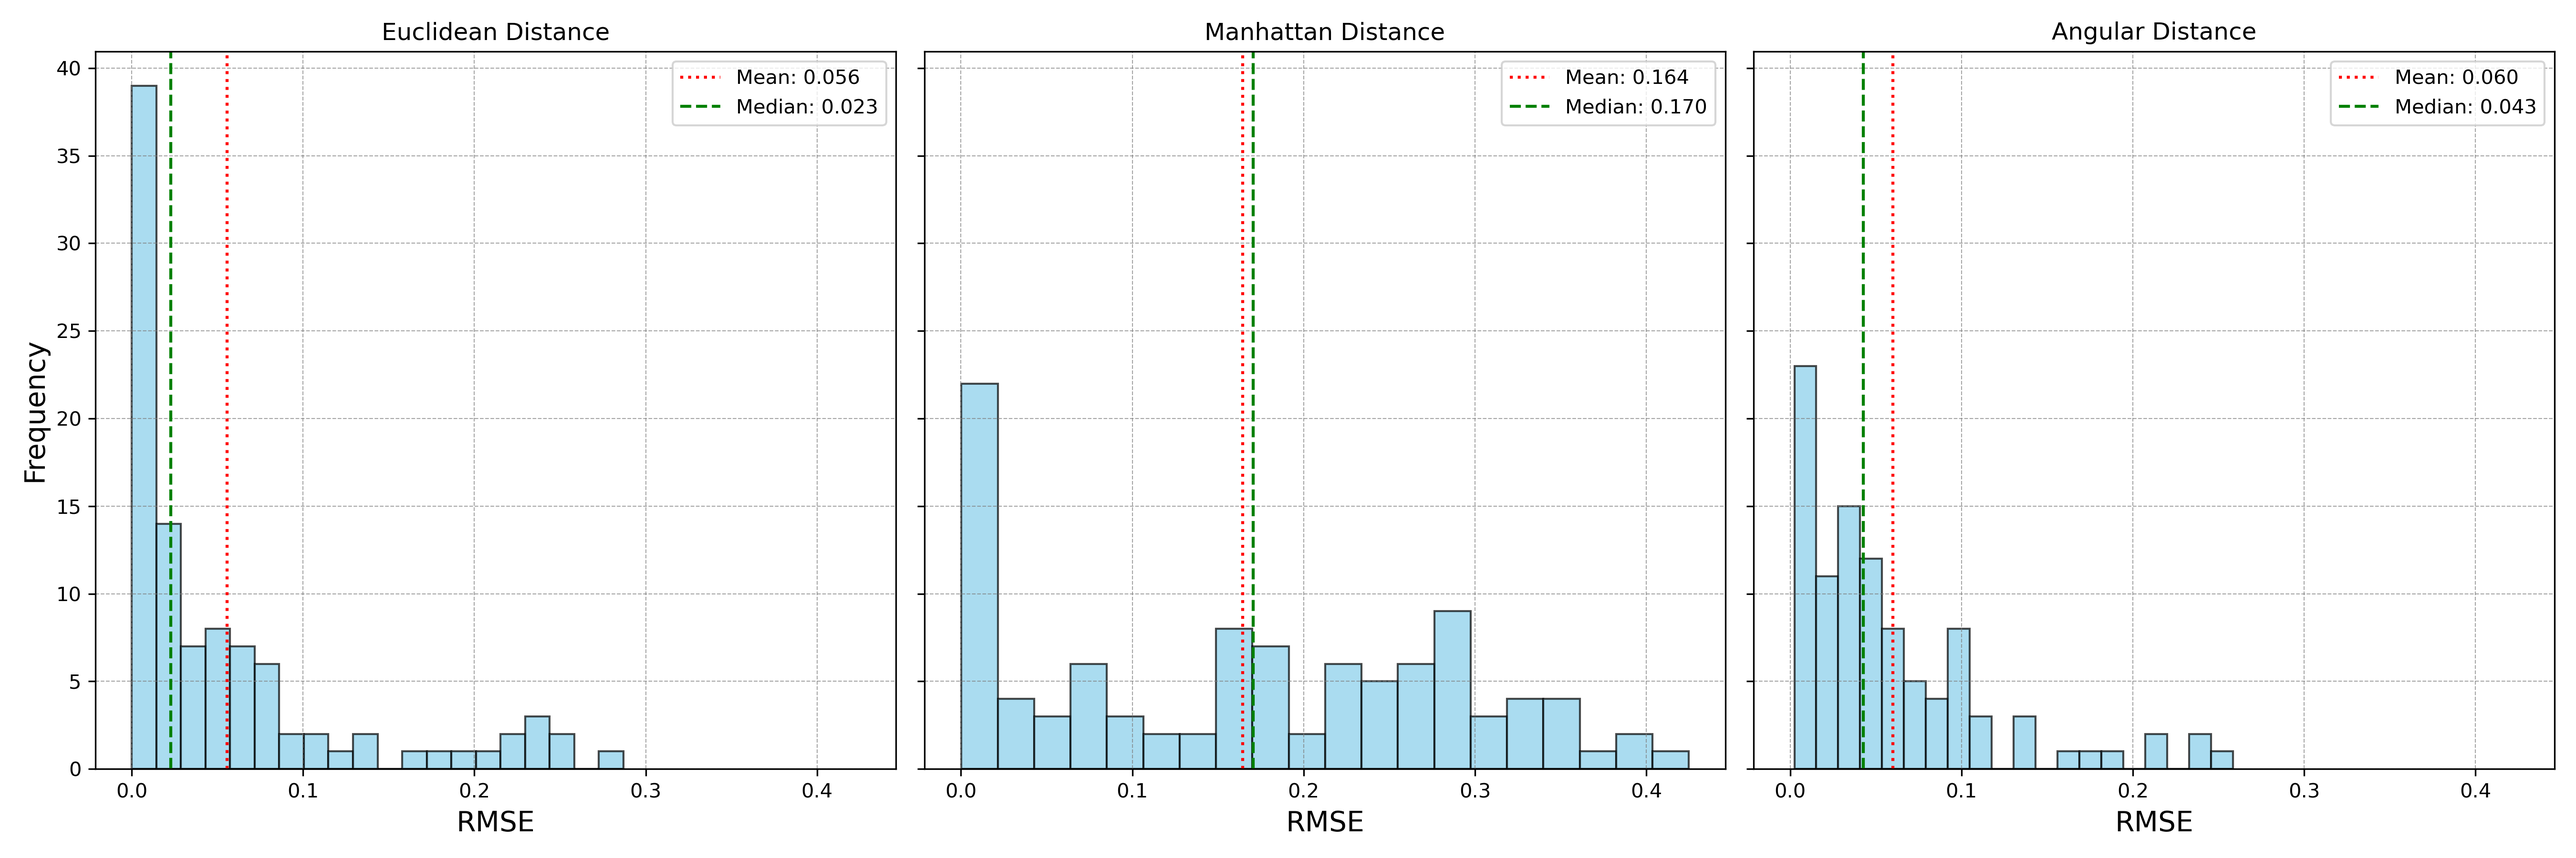
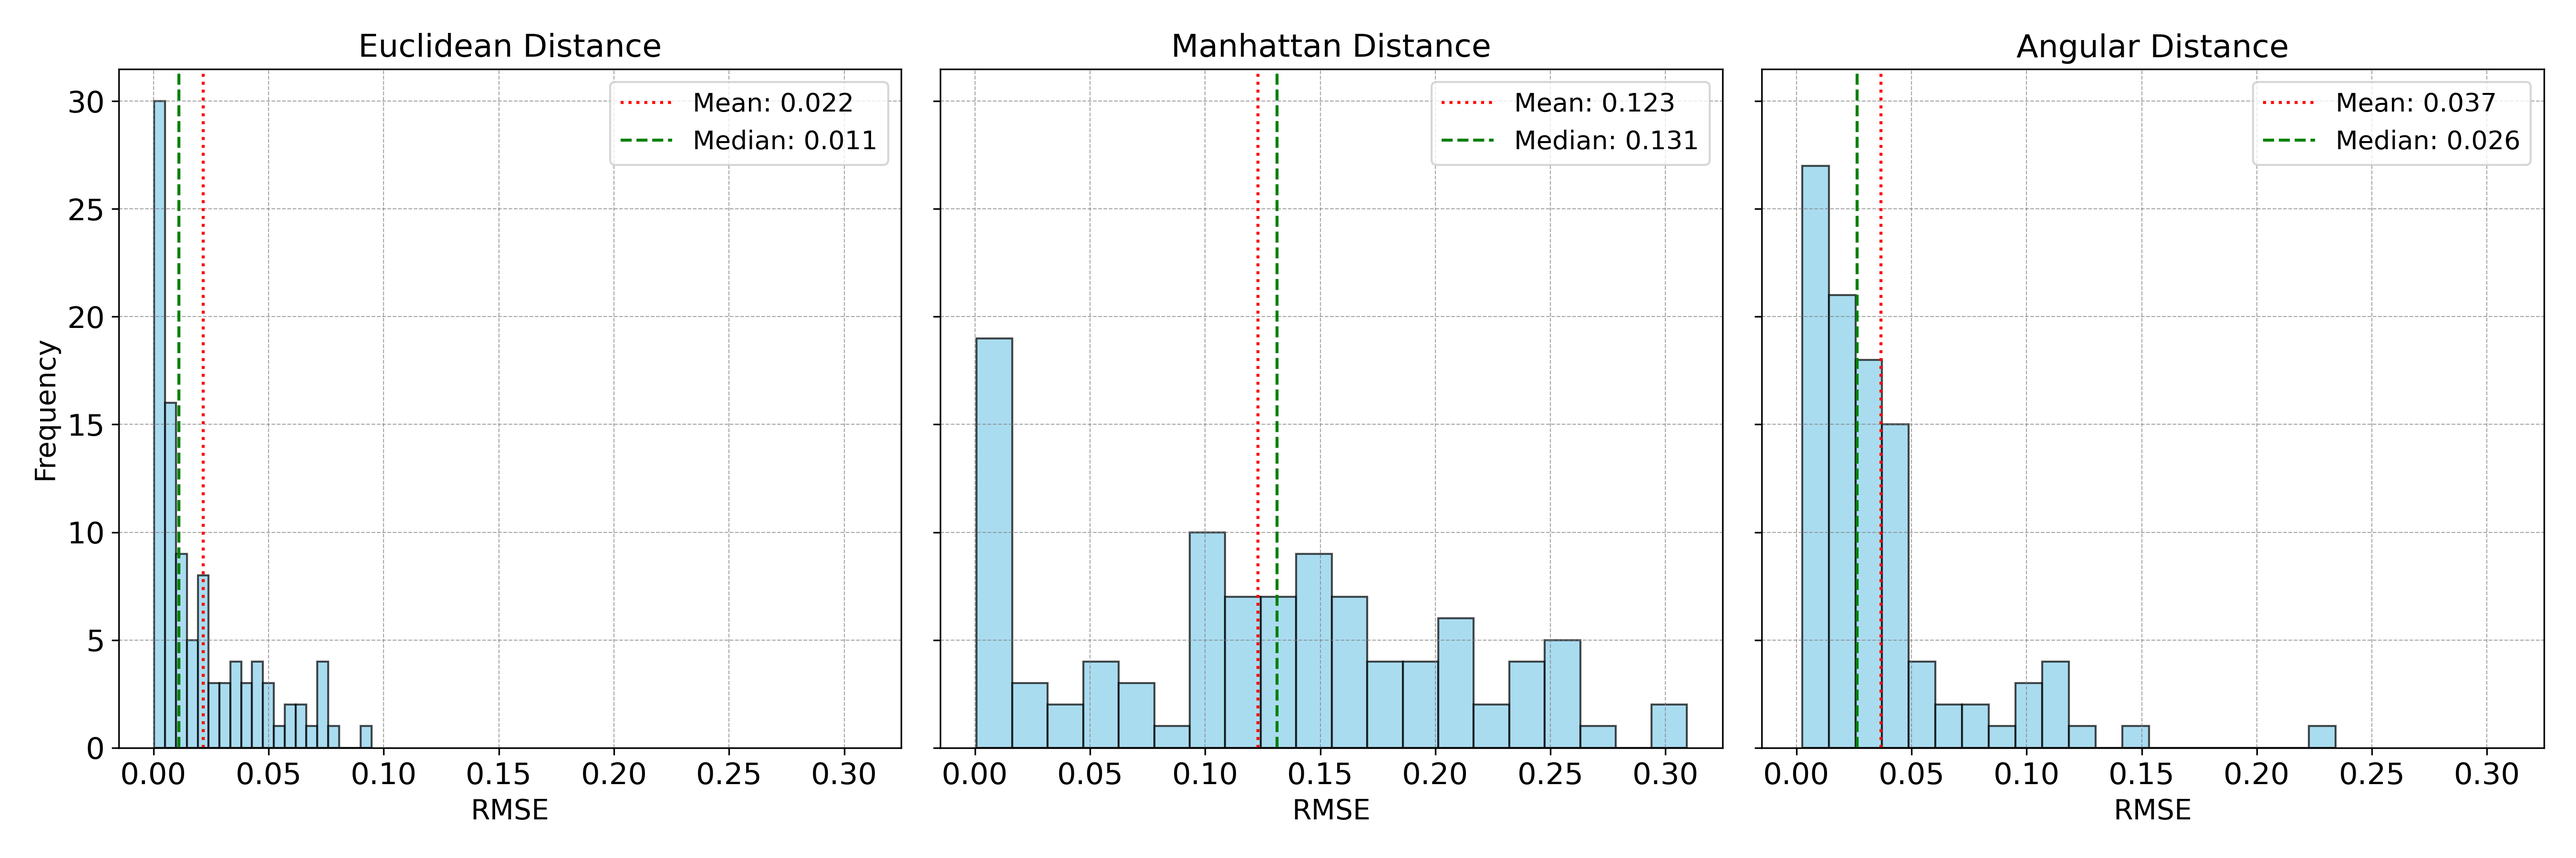
a

Changed region(s): [[0.0, 0.0311, 0.9956, 0.9644], [0.9644, 0.4667, 0.9956, 0.4978]]

diff --git a/_posts/2024-11-15-distance.md b/_posts/2024-11-15-distance.md
@@ -99,7 +99,7 @@ For the first test, suppose we have four mineral endmembers (example taken from 
 
 We'll generate 1000 synthetic mixtures with the following conditions:
 1. The mixtures follow the linear mixture model equation.
-2. Noise is normally distributed with a mean of 0 and a standard deviation chosen randomly between $$ 10^(-5) $$ and $$ 10^(-3) $$.
+2. Noise is normally distributed with a mean of $$ 0 $$ and a standard deviation chosen randomly between $$ 10^{-5} $$ and $$ 10^{-3} $$.
 
 The accuracy of the spectral unmixing using the three distance metrics are shown below:
 
@@ -116,7 +116,7 @@ In this case, Euclidean distance clearly outperforms the other two metrics, as i
 
 ### Mixture with Random 'Spikes'
 
-For the second test, instead of adding normal noise, this time we add random "spikes," where each wavelength band has a 1% chance of being randomly increased or decreased by a value between 0.05 and 0.2. While this type of noise is not common in remote sensing or spectroscopy, it will help us illustrate the strengths of Manhattan distance. The accuracy of the spectral unmixing of these synthetic mixtures are shown below:
+For the second test, instead of adding normal noise, this time we add random "spikes," where each wavelength band has a $$ 1% $$ chance of being randomly increased or decreased by a value between $$0.05$$ and $$0.2$$. While this type of noise is not common in remote sensing or spectroscopy, it will help us illustrate the strengths of Manhattan distance. The accuracy of the spectral unmixing of these synthetic mixtures are shown below:
 
 <div class="row mt-3">
     <div class="col-sm mt-3 mt-md-0">
@@ -185,14 +185,14 @@ The unmixing accuracy results are shown in histograms below:
 
 <div class="row mt-3">
     <div class="col-sm mt-3 mt-md-0">
-        {% include figure.liquid path="assets/img/post_1_noises.png" class="img-fluid rounded" %}
+        {% include figure.liquid path="assets/img/post_1_forth_test.png" class="img-fluid rounded" %}
     </div>
 </div>
 <div class="caption">
     Image 9. Hisotgram showing the accuracy (RMSE) of 1000 sepctral unmixing using three different distance metrics
 </div>
 
-Unexpectedly for me, Manhattan distance performed exceptionally well in this last case study, which probably can be attributed to its robustness to ouliers and more varying noise types. Despite this, its non-differentiable nature (recall the equation above) makes it less appealing for gradient-based optimization algorithms, especially for larger, more complex datasets. For this particular test, Manhattan distance takes 43 seconds for 1,000 data points, compared to 14 seconds for Euclidean distance and 11 seconds for angular distance.
+Manhattan distance performed exceptionally well in this last case study, which probably can be attributed to its robustness to ouliers and more varying noise types. Despite this, its non-differentiable nature (recall the equation above) makes it less appealing for gradient-based optimization algorithms, especially for larger, more complex datasets. For this particular test, Manhattan distance takes 43 seconds for 1,000 data points, compared to 14 seconds for Euclidean distance and 11 seconds for angular distance.
 
 This study highlights the importance of carefully selecting the appropriate distance metric based on the nature of the data and the problem being addressed. While Euclidean distance is often the default choice, Manhattan distance or angular distance can outperform it in specific scenarios, as demonstrated in the experiments above.
 
